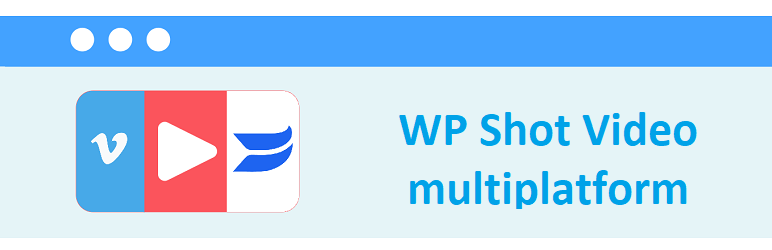
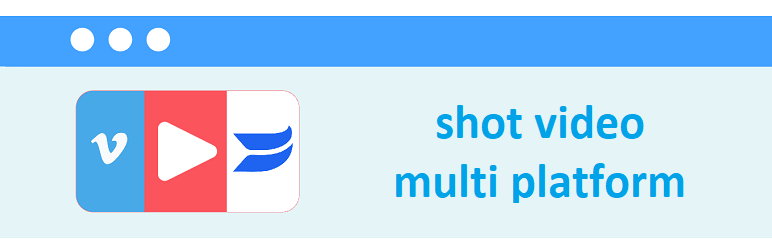
update the name
update name without 'wp'

Changed region(s): [[0.4974, 0.644, 0.9016, 0.84], [0.4974, 0.42, 0.9016, 0.588]]

diff --git a/src/shot-video-multi-platform/shot-video-multi-platform.php b/src/shot-video-multi-platform/shot-video-multi-platform.php
@@ -1,6 +1,6 @@
 <?php 
 /*
- * Plugin Name:       wp-shot-video-multi-platform
+ * Plugin Name:       shot-video-multi-platform
  * Plugin URI:        https://github.com/FelixRedo
  * Description:       Inserts a responsive video iframe from different platforms. 
  * Version:           1.0.0
@@ -14,18 +14,18 @@
  */
 
  /*
-wp-shot-video-multi-platform is free software: you can redistribute it and/or modify
+shot-video-multi-platform is free software: you can redistribute it and/or modify
 it under the terms of the GNU General Public License as published by
 the Free Software Foundation, either version 2 of the License, or
 any later version.
 
-wp-shot-video-multi-platform is distributed in the hope that it will be useful,
+shot-video-multi-platform is distributed in the hope that it will be useful,
 but WITHOUT ANY WARRANTY; without even the implied warranty of
 MERCHANTABILITY or FITNESS FOR A PARTICULAR PURPOSE. See the
 GNU General Public License for more details.
 
 You should have received a copy of the GNU General Public License
-along with wp-shot-video-multi-platform. If not, see https://www.gnu.org/licenses/gpl-3.0.html.
+along with shot-video-multi-platform. If not, see https://www.gnu.org/licenses/gpl-3.0.html.
 */
 
 add_shortcode( "svmp",
